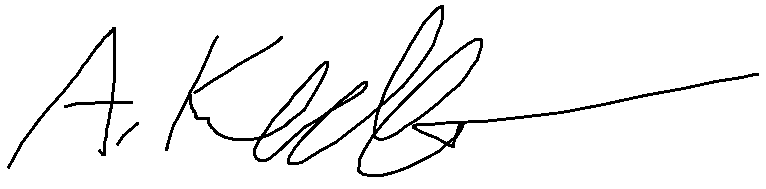
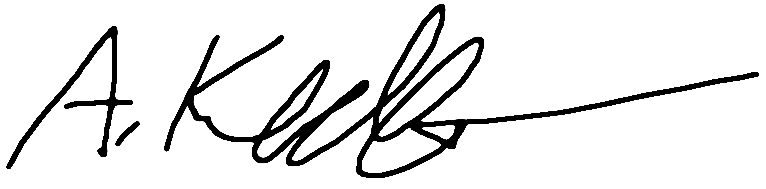
Made signature transparent

diff --git a/sections/a_appendix.tex b/sections/a_appendix.tex
@@ -20,8 +20,7 @@ Rapperswil, 24. January 2024
 \end{tabular}
 
 \includegraphics[width=4.8cm, align=t, smash=br, hshift=0.9cm, vshift=2.55cm]{appendix/Signature_Florian_Baumgartner.pdf}
-\includegraphics[width=3.6cm, align=t, smash=br, hshift=8.25cm, vshift=1.8cm]{appendix/Signature_Alain_Keller.png}
-\todo[inline]{Add Alain's signature here}
+\includegraphics[width=4.6cm, align=t, smash=br, hshift=8.25cm, vshift=1.95cm]{appendix/Signature_Alain_Keller.png}
 \newpage
 
 \section{Data Archive} \label{Data Archive}
